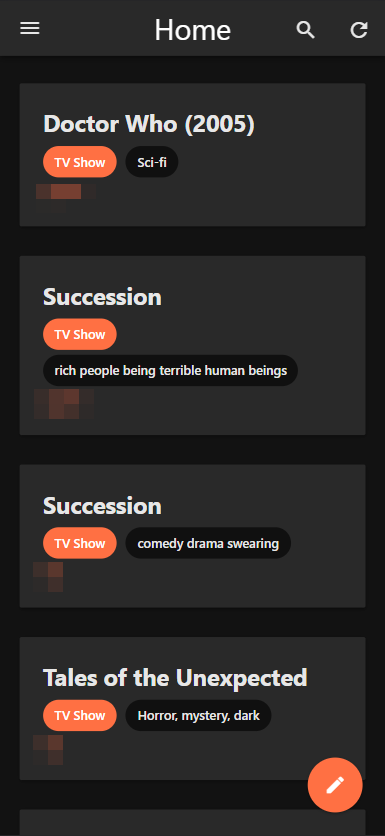
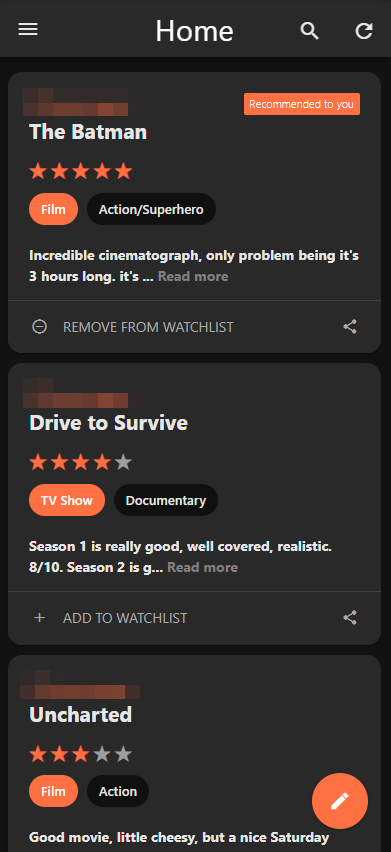
finalise new design and add digital asset linking

diff --git a/public/service-worker.js b/public/service-worker.js
@@ -3,8 +3,13 @@ self.addEventListener('install', function (event) {
 })
 
 self.addEventListener('fetch', function (event) {
-    console.log('used to intercept requests so we can check for the file or data in the cache')
-})
+    console.log('used to intercept requests so we can check for the file or data in the cache');
+
+    caches.keys().then(function(names) {
+        for (let name of names)
+            caches.delete(name);
+    });
+});
 
 self.addEventListener('activate', function (event) {
     console.log('this event triggers when the service worker activates');
@@ -21,7 +26,7 @@ self.addEventListener('activate', function (event) {
             );
         })
     );
-})
+});
 
 self.addEventListener('push', function (e) {
     const { title, message, icon, url, tag } = e.data.json();

diff --git a/routes/app.js b/routes/app.js
@@ -33,13 +33,6 @@ router.get('/', async (req, res) => {
 
         const newPosts = await getWatchlistPosts(userPosts, req.cookies.USERNAME);
 
-        if (await (await getUserInfo(req.cookies.USERNAME)).experiments.layout === true) {
-            res.render('index-test', { user: await getUserInfo(req.cookies.USERNAME), posts: newPosts });
-            return true;
-        }
-
-        
-
         res.render('index', { user: await getUserInfo(req.cookies.USERNAME), posts: newPosts });
     } else {
         res.redirect('/app/login');

diff --git a/server.js b/server.js
@@ -18,6 +18,7 @@ app.set('view engine', 'ejs');
 
 app.use(compression());
 app.use('/public', express.static(path.join(__dirname, 'public')));
+app.use('/.well-known', express.static(path.join(__dirname, 'public', '.well-known')));
 app.use(cors());
 app.use(express.json());
 app.use(cookieParser());
